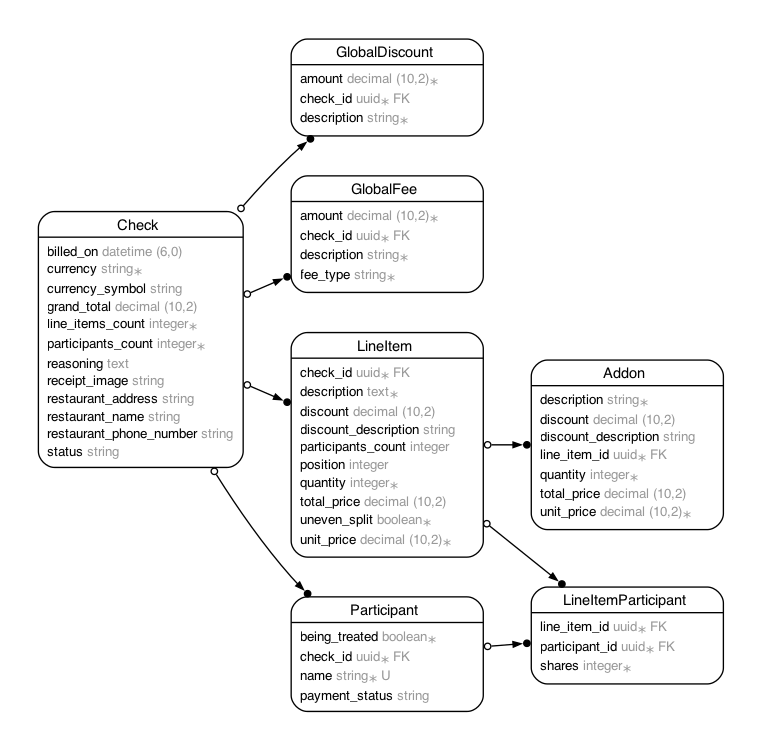
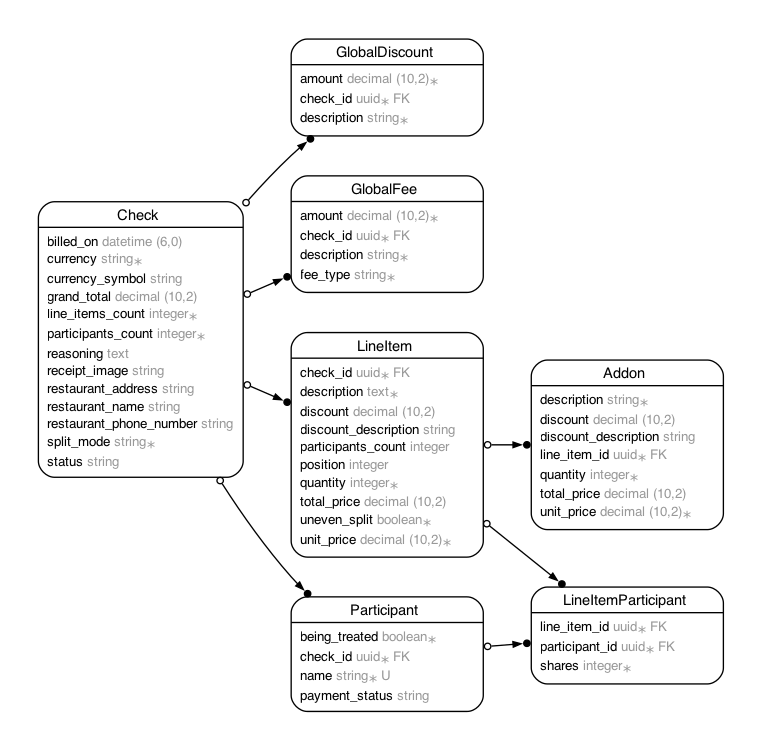
Add even-split mode as a check-level alternative
Sometimes the group doesn't want to itemize at all. Checks gain a
split_mode enum (itemized, the default, or even). In even mode each
non-treated participant owes calculated_total / non_treated_count and
treated participants owe nothing — the redistribution is inherent in
the divisor, so no separate coverage math applies.

A two-tab toggle above the Items card switches modes via a patched
member route. Check doesn't declare broadcasts_refreshes (children
handle their own), so the action broadcasts a refresh explicitly the
same way ParseReceiptJob does; without it other devices at the table
would never see the mode flip.

In even mode the show page renders a pane with the big per-person
figure, hides the per-item assignment UI and unassigned/owner tints
(assignments are preserved, just ignored), and the Who Owes What
cards collapse to a single "Even split (1 of N)" line. Itemized
assignments survive a round trip through even mode untouched.

Changed region(s): [[0.0302, 0.2453, 0.332, 0.644]]

diff --git a/app/assets/stylesheets/_redesign.scss b/app/assets/stylesheets/_redesign.scss
@@ -317,6 +317,91 @@
 }
 
 // ============================================================
+// Split-mode toggle — itemized vs even
+// ============================================================
+.ls-mode-toggle {
+  display: flex;
+  gap: 10px;
+
+  form {
+    display: contents;
+  }
+
+  .ls-mode-tab {
+    flex: 1;
+    display: flex;
+    flex-direction: column;
+    align-items: flex-start;
+    gap: 2px;
+    padding: 12px 16px;
+    background: var(--ls-surface-2);
+    border: 1.5px solid var(--ls-border);
+    border-radius: var(--ls-r-md);
+    color: var(--ls-muted);
+    text-align: start;
+    cursor: pointer;
+    width: 100%;
+
+    .ls-mode-title {
+      font-family: var(--ls-font-display);
+      font-variation-settings: 'opsz' 60, 'SOFT' 80, 'wght' 500;
+      font-size: 1.1rem;
+      color: var(--ls-fg);
+    }
+
+    .ls-mode-sub {
+      font-size: 0.8rem;
+    }
+
+    &:hover {
+      background: var(--ls-surface);
+    }
+
+    &.active {
+      background: var(--ls-surface);
+      border-color: var(--ls-border-strong);
+      box-shadow: var(--ls-shadow-sticker);
+
+      .ls-mode-title {
+        color: var(--ls-accent-strong);
+      }
+    }
+  }
+}
+
+// ============================================================
+// Even-split pane — big per-person figure
+// ============================================================
+.ls-even-pane {
+  padding: 28px 20px;
+  text-align: center;
+
+  .ls-even-amount {
+    font-family: var(--ls-font-display);
+    font-variation-settings: 'opsz' 144, 'SOFT' 90, 'wght' 600;
+    font-size: clamp(2.6rem, 9vw, 4rem);
+    line-height: 1;
+    letter-spacing: -0.03em;
+  }
+
+  .ls-even-caption {
+    margin-top: 8px;
+    color: var(--ls-muted);
+    font-size: 0.9rem;
+  }
+
+  .ls-even-treated {
+    margin-top: 12px;
+    font-size: 0.9rem;
+    color: oklch(40% 0.18 145);
+    background: var(--ls-good-soft);
+    border-radius: var(--ls-r-md);
+    padding: 8px 12px;
+    display: inline-block;
+  }
+}
+
+// ============================================================
 // Uneven shares pane — "who had how many" stepper rows
 // ============================================================
 .ls-shares-pane {

diff --git a/spec/models/check_spec.rb b/spec/models/check_spec.rb
@@ -102,5 +102,41 @@ RSpec.describe Check, type: :model do
       expect(check.amount_owed_by(maya)).to eq(24.0)
       expect(check.amount_owed_by(raghu)).to eq(24.0)
     end
+
+    it "divides the whole check evenly in even-split mode, ignoring item assignments" do
+      check = Check.create!(split_mode: "even")
+      maya = check.participants.create!(name: "Maya")
+      raghu = check.participants.create!(name: "Raghu")
+
+      steak = check.line_items.create!(description: "Steak", unit_price: 60, quantity: 1)
+      steak.line_item_participants.create!(participant: maya)
+      check.line_items.create!(description: "Salad", unit_price: 30, quantity: 1)
+
+      check.global_fees.create!(description: "Tax", amount: 10)
+
+      expect(check.amount_owed_by(maya)).to eq(50.0)
+      expect(check.amount_owed_by(raghu)).to eq(50.0)
+    end
+
+    it "excludes treated participants from the even split and charges them nothing" do
+      check = Check.create!(split_mode: "even")
+      maya = check.participants.create!(name: "Maya")
+      raghu = check.participants.create!(name: "Raghu")
+      alice = check.participants.create!(name: "Alice")
+      alice.update!(being_treated: true)
+
+      check.line_items.create!(description: "Feast", unit_price: 90, quantity: 1)
+
+      expect(check.amount_owed_by(alice)).to eq(0.0)
+      expect(check.amount_owed_by(maya)).to eq(45.0)
+      expect(check.amount_owed_by(raghu)).to eq(45.0)
+    end
+
+    it "returns zero from even_split_amount when there is nobody to charge" do
+      check = Check.create!(split_mode: "even")
+      check.line_items.create!(description: "Feast", unit_price: 90, quantity: 1)
+
+      expect(check.even_split_amount).to eq(0.0)
+    end
   end
 end

diff --git a/app/models/check.rb b/app/models/check.rb
@@ -15,6 +15,7 @@
 #  restaurant_address      :string
 #  restaurant_name         :string
 #  restaurant_phone_number :string
+#  split_mode              :string           default("itemized"), not null
 #  status                  :string           default("draft")
 #  created_at              :datetime         not null
 #  updated_at              :datetime         not null
@@ -45,6 +46,7 @@ class Check < ApplicationRecord
   accepts_nested_attributes_for :participants, allow_destroy: true
 
   enum :status, {parsing: "parsing", draft: "draft", reviewing: "reviewing", finalized: "finalized"}
+  enum :split_mode, {itemized: "itemized", even: "even"}, prefix: :split
 
   def subtotal
     line_items.sum { |item| item.total_with_addons }
@@ -69,11 +71,26 @@ class Check < ApplicationRecord
   def amount_owed_by(participant)
     if participant.is_being_treated?
       0.0
+    elsif split_even?
+      even_split_amount.round(2)
     else
       (calculate_base_amount(participant) + treatment_redistribution_amount_for(participant)).round(2)
     end
   end
   memo_wise :amount_owed_by
+
+  def non_treated_count
+    participants.count - treated_participants.count
+  end
+  memo_wise :non_treated_count
+
+  # In even mode treated participants pay nothing, so the redistribution is
+  # simply dividing the whole check among everyone else.
+  def even_split_amount
+    return 0.0 if non_treated_count.zero?
+    calculated_total / non_treated_count
+  end
+  memo_wise :even_split_amount
 
   def treated_participants
     participants.treated.to_a

diff --git a/app/controllers/checks_controller.rb b/app/controllers/checks_controller.rb
@@ -1,5 +1,5 @@
 class ChecksController < ApplicationController
-  before_action :set_check, only: [:show, :edit, :update, :destroy, :toggle_zero_items, :update_currency]
+  before_action :set_check, only: [:show, :edit, :update, :destroy, :toggle_zero_items, :update_currency, :update_split_mode]
 
   def index
     @check = Check.new
@@ -34,6 +34,12 @@ class ChecksController < ApplicationController
     end
 
     redirect_to @check
+  end
+
+  def update_split_mode
+    @check.update!(split_mode: params[:split_mode])
+    @check.broadcast_refresh
+    redirect_to @check, status: :see_other
   end
 
   def new

diff --git a/db/migrate/20260710220152_add_split_mode_to_checks.rb b/db/migrate/20260710220152_add_split_mode_to_checks.rb
@@ -1,0 +1,5 @@
+class AddSplitModeToChecks < ActiveRecord::Migration[8.0]
+  def change
+    add_column :checks, :split_mode, :string, default: "itemized", null: false
+  end
+end

diff --git a/db/cable_schema.rb b/db/cable_schema.rb
@@ -10,7 +10,7 @@
 #
 # It's strongly recommended that you check this file into your version control system.
 
-ActiveRecord::Schema[8.0].define(version: 2026_07_10_215452) do
+ActiveRecord::Schema[8.0].define(version: 2026_07_10_220152) do
   # These are extensions that must be enabled in order to support this database
   enable_extension "pg_catalog.plpgsql"
   enable_extension "pgcrypto"
@@ -170,6 +170,7 @@ ActiveRecord::Schema[8.0].define(version: 2026_07_10_215452) do
     t.integer "participants_count", default: 0, null: false
     t.string "currency_symbol", default: "$"
     t.text "reasoning"
+    t.string "split_mode", default: "itemized", null: false
     t.index ["status"], name: "index_checks_on_status"
   end
 

diff --git a/db/cache_schema.rb b/db/cache_schema.rb
@@ -10,7 +10,7 @@
 #
 # It's strongly recommended that you check this file into your version control system.
 
-ActiveRecord::Schema[8.0].define(version: 2026_07_10_215452) do
+ActiveRecord::Schema[8.0].define(version: 2026_07_10_220152) do
   # These are extensions that must be enabled in order to support this database
   enable_extension "pg_catalog.plpgsql"
   enable_extension "pgcrypto"
@@ -170,6 +170,7 @@ ActiveRecord::Schema[8.0].define(version: 2026_07_10_215452) do
     t.integer "participants_count", default: 0, null: false
     t.string "currency_symbol", default: "$"
     t.text "reasoning"
+    t.string "split_mode", default: "itemized", null: false
     t.index ["status"], name: "index_checks_on_status"
   end
 

diff --git a/db/queue_schema.rb b/db/queue_schema.rb
@@ -10,7 +10,7 @@
 #
 # It's strongly recommended that you check this file into your version control system.
 
-ActiveRecord::Schema[8.0].define(version: 2026_07_10_215452) do
+ActiveRecord::Schema[8.0].define(version: 2026_07_10_220152) do
   # These are extensions that must be enabled in order to support this database
   enable_extension "pg_catalog.plpgsql"
   enable_extension "pgcrypto"
@@ -170,6 +170,7 @@ ActiveRecord::Schema[8.0].define(version: 2026_07_10_215452) do
     t.integer "participants_count", default: 0, null: false
     t.string "currency_symbol", default: "$"
     t.text "reasoning"
+    t.string "split_mode", default: "itemized", null: false
     t.index ["status"], name: "index_checks_on_status"
   end
 

diff --git a/db/schema.rb b/db/schema.rb
@@ -10,7 +10,7 @@
 #
 # It's strongly recommended that you check this file into your version control system.
 
-ActiveRecord::Schema[8.0].define(version: 2026_07_10_215452) do
+ActiveRecord::Schema[8.0].define(version: 2026_07_10_220152) do
   # These are extensions that must be enabled in order to support this database
   enable_extension "pg_catalog.plpgsql"
   enable_extension "pgcrypto"
@@ -170,6 +170,7 @@ ActiveRecord::Schema[8.0].define(version: 2026_07_10_215452) do
     t.integer "participants_count", default: 0, null: false
     t.string "currency_symbol", default: "$"
     t.text "reasoning"
+    t.string "split_mode", default: "itemized", null: false
     t.index ["status"], name: "index_checks_on_status"
   end
 

diff --git a/config/routes.rb b/config/routes.rb
@@ -19,6 +19,7 @@ Rails.application.routes.draw do
     member do
       post :toggle_zero_items
       patch :update_currency
+      patch :update_split_mode
     end
     resources :participants, only: [:create, :show, :edit, :update, :destroy] do
       member do